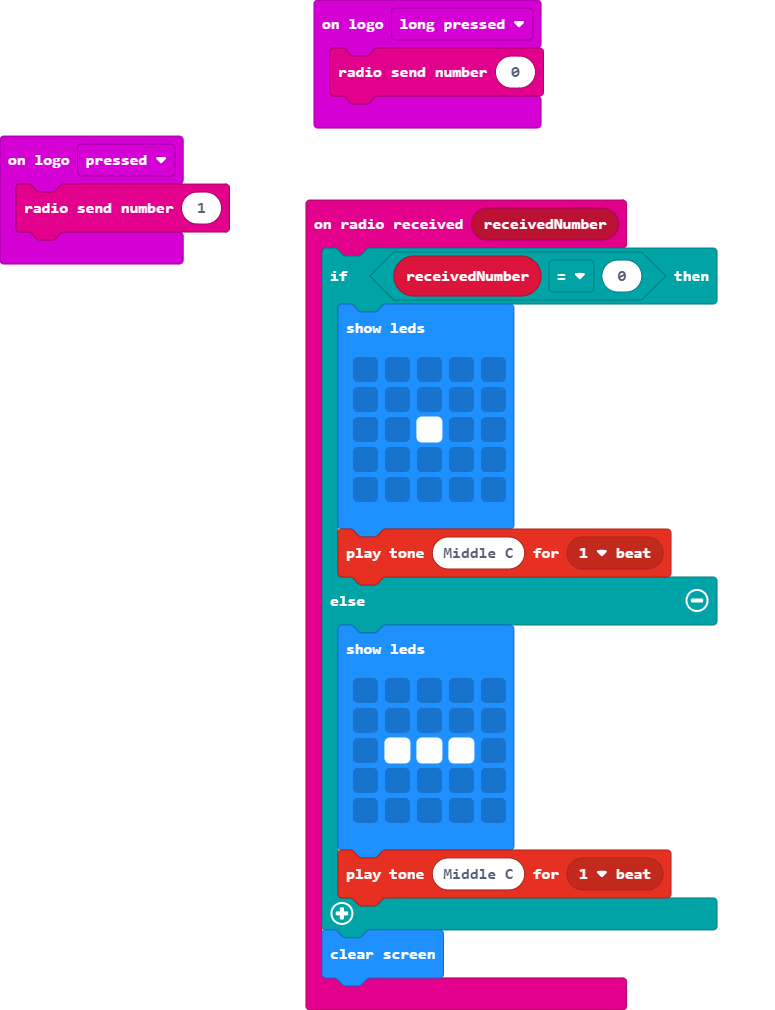
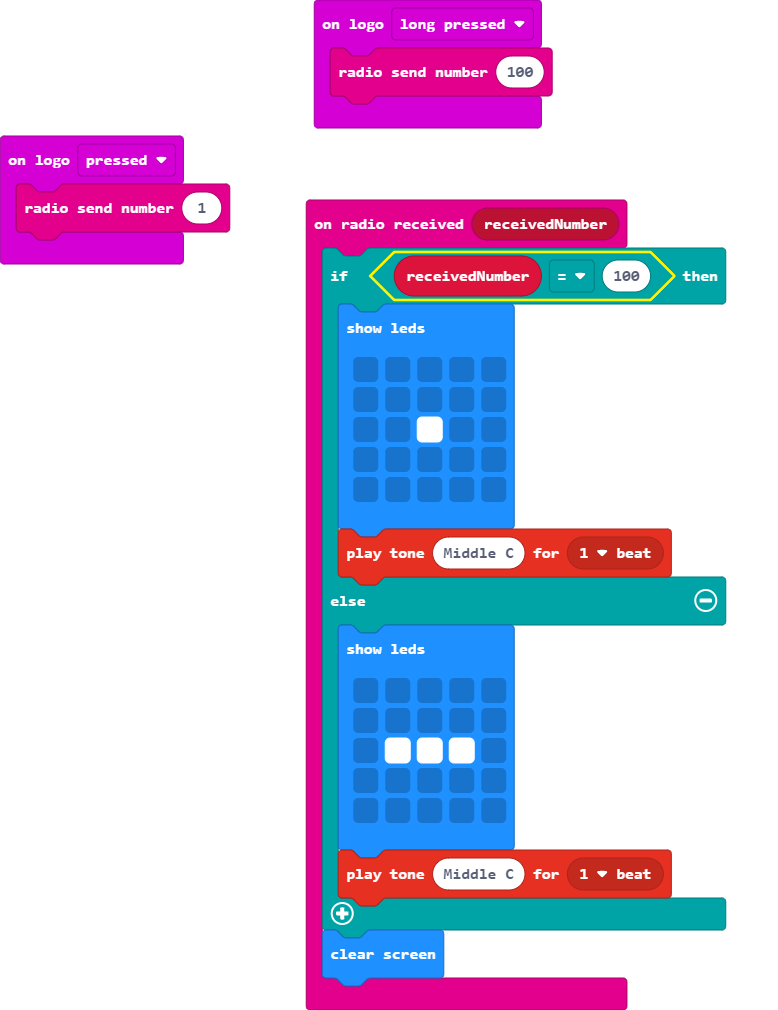
Update main.blocks, main.ts

diff --git a/main.ts b/main.ts
@@ -1,5 +1,5 @@
 radio.onReceivedNumber(function (receivedNumber) {
-    if (receivedNumber == 0) {
+    if (receivedNumber == 100) {
         basic.showLeds(`
             . . . . .
             . . . . .
@@ -21,7 +21,7 @@ radio.onReceivedNumber(function (receivedNumber) {
     basic.clearScreen()
 })
 input.onLogoEvent(TouchButtonEvent.LongPressed, function () {
-    radio.sendNumber(0)
+    radio.sendNumber(100)
 })
 input.onLogoEvent(TouchButtonEvent.Pressed, function () {
     radio.sendNumber(1)
